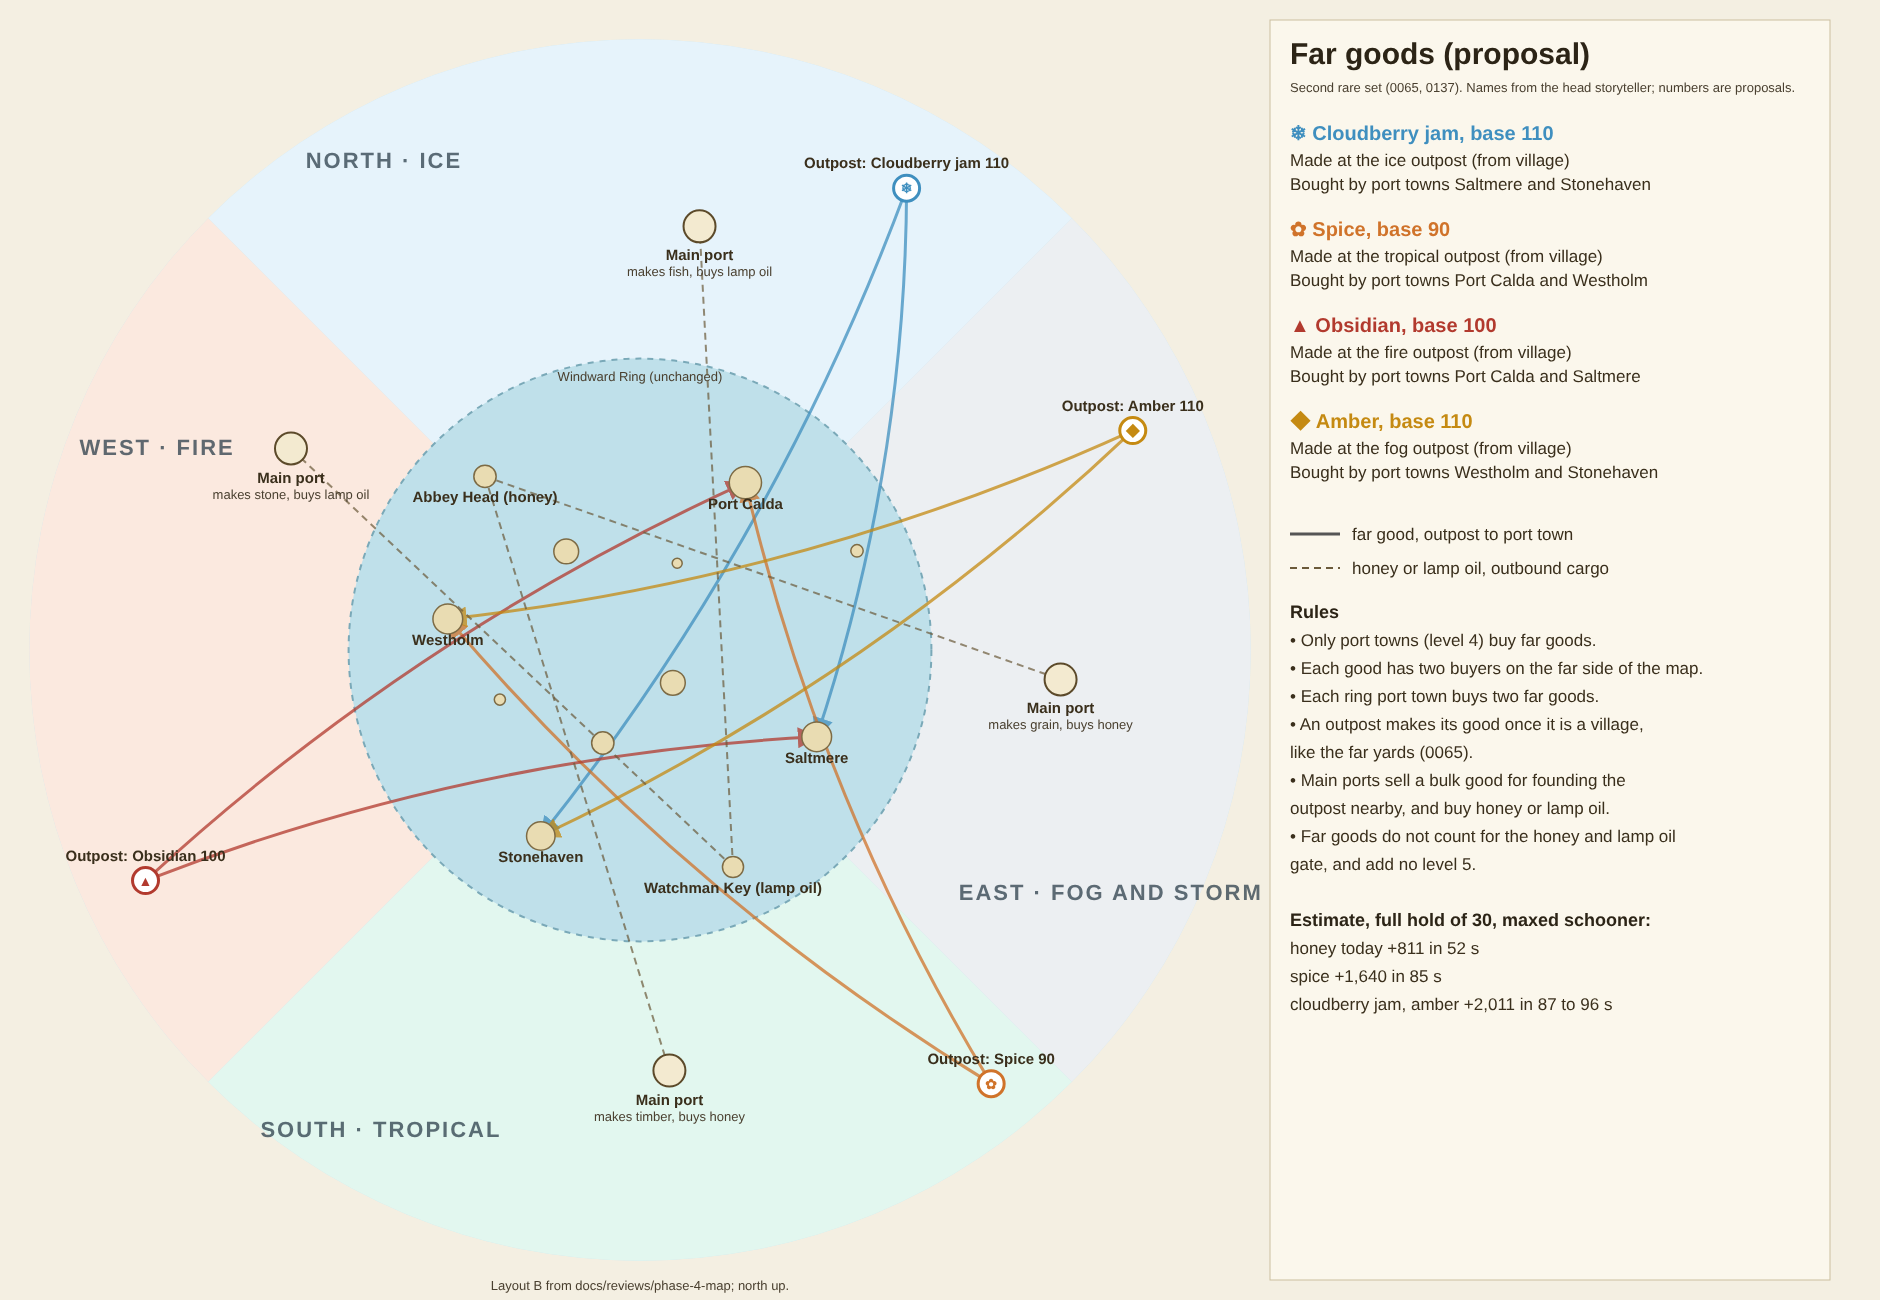
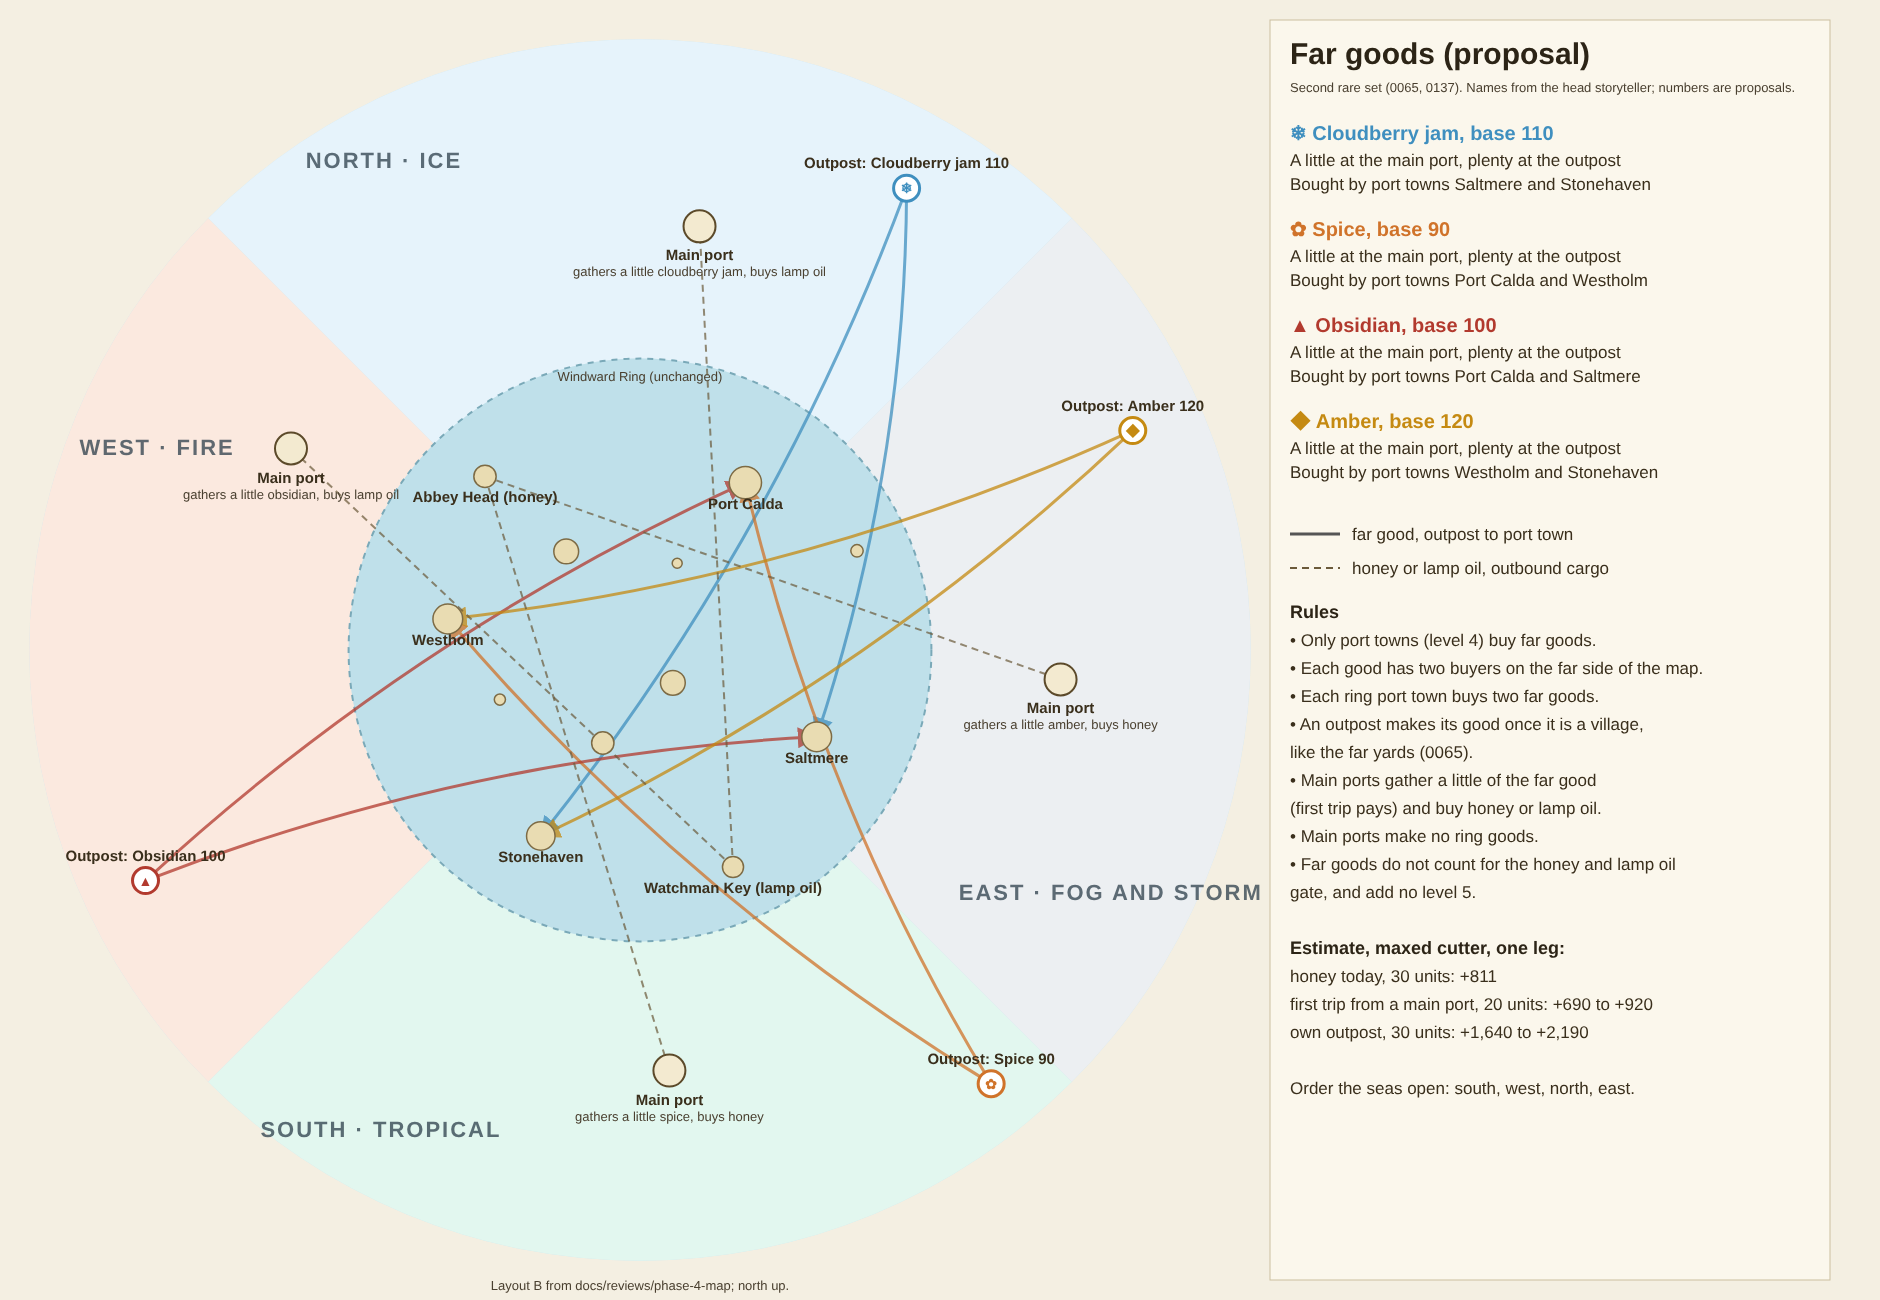
Far goods round 2: main ports gather the far good, prices follow the sea order
After Guillaume's feedback and the head storyteller's view: biome main ports
make no ring goods, they gather a little of their far good (first trip pays)
and buy honey or lamp oil; the founded outpost makes plenty. Seas open south,
west, north, east; amber raised to 120. Whole price ladder checked against
0046; single question left.

Claude-Session: https://claude.ai/code/session_01DQmJctuA4PjnC5UzqT4pSN

diff --git a/docs/reviews/far-goods/src/estimate.test.ts b/docs/reviews/far-goods/src/estimate.test.ts
@@ -36,10 +36,10 @@ const t = TUNING.economy.towns;
 const spread = 0.06; // Captain's cut
 const mid = (base: number, stock: number) =>
   base * Math.min(Math.max(Math.pow(m.referenceStock / Math.max(stock, 1), m.elasticity), m.floor), m.ceiling);
-function run(base: number, makerLevel: number, buyerLevel: number, qty: number) {
+function run(base: number, makerLevel: number, buyerLevel: number, qty: number, share = t.rareShare) {
   let cost = 0;
   let paid = 0;
-  const s0 = t.producesEquilibrium[makerLevel - 1]! * t.rareShare;
+  const s0 = t.producesEquilibrium[makerLevel - 1]! * share;
   const w0 = t.wantsEquilibrium[buyerLevel - 1]!;
   for (let i = 0; i < qty; i++) {
     cost += Math.ceil(mid(base, s0 - i - 1) * (1 + spread));
@@ -52,7 +52,7 @@ const maxed = { sails: 3, hull: 3, hold: 3 } as const;
 it('prints the estimate', () => {
   const ships = ['cutter', 'schooner', 'hoy', 'fluyt', 'indiaman'];
   const rows: string[] = [];
-  const cases: { label: string; from: string; to: string; base: number; ml: number; bl: number }[] = [
+  const cases: { label: string; from: string; to: string; base: number; ml: number; bl: number; share?: number; qty?: number }[] = [
     { label: 'honey today', from: 'abbey-head', to: 'saltmere', base: 55, ml: 2, bl: 3 },
     { label: 'lamp oil today', from: 'watchman-key', to: 'calda', base: 50, ml: 2, bl: 3 },
     { label: 'spice', from: 'outpost-tropic', to: 'calda', base: 90, ml: 2, bl: 4 },
@@ -61,8 +61,12 @@ it('prints the estimate', () => {
     { label: 'cloudberry jam', from: 'outpost-ice', to: 'stonehaven', base: 110, ml: 2, bl: 4 },
     { label: 'obsidian', from: 'outpost-fire', to: 'calda', base: 100, ml: 2, bl: 4 },
     { label: 'obsidian', from: 'outpost-fire', to: 'saltmere', base: 100, ml: 2, bl: 4 },
-    { label: 'amber', from: 'outpost-fog', to: 'westholm', base: 110, ml: 2, bl: 4 },
-    { label: 'amber', from: 'outpost-fog', to: 'stonehaven', base: 110, ml: 2, bl: 4 },
+    { label: 'amber', from: 'outpost-fog', to: 'westholm', base: 120, ml: 2, bl: 4 },
+    { label: 'amber', from: 'outpost-fog', to: 'stonehaven', base: 120, ml: 2, bl: 4 },
+    { label: 'spice, main port taste', from: 'tropic-port', to: 'calda', base: 90, ml: 2, bl: 4, share: 0.3, qty: 15 },
+    { label: 'obsidian, main port taste', from: 'fire-port', to: 'saltmere', base: 100, ml: 2, bl: 4, share: 0.3, qty: 15 },
+    { label: 'jam, main port taste', from: 'ice-port', to: 'saltmere', base: 110, ml: 2, bl: 4, share: 0.3, qty: 15 },
+    { label: 'amber, main port taste', from: 'fog-port', to: 'westholm', base: 120, ml: 2, bl: 4, share: 0.3, qty: 15 },
     { label: 'honey out', from: 'abbey-head', to: 'tropic-port', base: 55, ml: 2, bl: 2 },
     { label: 'lamp oil out', from: 'watchman-key', to: 'ice-port', base: 50, ml: 2, bl: 2 },
   ];
@@ -71,8 +75,8 @@ it('prints the estimate', () => {
     for (const id of ships) {
       const ship = effectiveShip(SHIP_CLASSES[id]!, maxed);
       const sec = legSeconds(map, ship, c.from, c.to);
-      const qty = Math.min(ship.hold, 30);
-      const r = run(c.base, c.ml, c.bl, qty);
+      const qty = Math.min(ship.hold, c.qty ?? 30);
+      const r = run(c.base, c.ml, c.bl, qty, c.share);
       parts.push(`${id}: ${qty}u ${Math.round(sec)}s +${r.gain} (${(r.gain / sec).toFixed(1)}/s)`);
     }
     rows.push(parts.join(' | '));

diff --git a/docs/reviews/far-goods/README.md b/docs/reviews/far-goods/README.md
@@ -1,6 +1,6 @@
 # Far goods for the biomes (Phase 4 economy pass)
 
-**Status:** Proposal, 2026-10-24. Docs and data proposal only, no code. The last preparation step from [0137](../../decisions/0137-phase-4-biomes-and-founded-outposts.md). The answers to the questions at the end will become an ADR.
+**Status:** Proposal, round 2, 2026-10-24 (main ports and prices reworked with the head storyteller after Guillaume's feedback). Docs and data proposal only, no code. The last preparation step from [0137](../../decisions/0137-phase-4-biomes-and-founded-outposts.md). The answers to the questions at the end will become an ADR.
 
 **Read for this pass:** [0065](../../decisions/0065-rare-goods-from-the-far-yards.md) (rare goods, port town gate), [0063](../../decisions/0063-specialized-town-goods.md) (specialties), [0059](../../decisions/0059-settlement-levels.md) (town levels), [0046](../../decisions/0046-phase-1-economy-tuning.md) (economy targets), [0137](../../decisions/0137-phase-4-biomes-and-founded-outposts.md) and its [layout review](../phase-4-map/README.md), [0140](../../decisions/0140-wind-zones-and-currents.md) (wind zones and currents), `src/data/tuning/goods.json`, `economy.json` and the ring's ports in `src/data/phase1-map.json`. The code was checked with graphify (`graphify update .`, then `graphify query` on the rare goods and market code).
 
@@ -13,60 +13,82 @@
 - Level 4 is the top level. Its only effects are bigger orders (×1.5) and a bigger market. Nothing is wanted only by port towns yet.
 - 0065 promised a second, rarer set, wanted only by port towns. 0137 moved it to the four biomes: each biome's founded outpost makes one.
 
+
 ## Proposal
 
-### The four far goods
+The loop in one line: **carry home goods out, carry the far good back.** No new everyday goods; only the four far goods are new.
 
-Names and toast lines from the head storyteller (cozy, no animal products, the weather is the only antagonist).
+### The four far goods, in the order the seas open
 
-| Biome | Far good (EN / FR) | Base price | Made at | Bought by (port towns only) |
-|---|---|---|---|---|
-| South, tropical (opens first) | Spice / Épices | 90 | Tropical outpost, from village | Port Calda, Westholm |
-| West, fire | Obsidian / Obsidienne | 100 | Fire outpost, from village | Port Calda, Saltmere |
-| North, ice | Cloudberry jam / Confiture de mûres arctiques | 110 | Ice outpost, from village | Saltmere, Stonehaven |
-| East, fog and storm | Amber / Ambre | 110 | Fog outpost, from village | Westholm, Stonehaven |
+Names, order and openers from the head storyteller. All four open after the ring arcs, each through someone the player already knows, so every ring arc leads outward. The price climbs with the order, so each new sea pays more than the last.
 
-- **Far side rule, as in 0065.** Each good's two buyers sit on the side of the ring away from its biome, so every delivery crosses the ring. Each ring port town buys exactly two far goods, and each good has exactly two buyers.
-- **Prices.** Spice is the gentlest, since the south opens first. The ice and fog goods pay most because their seas are the hardest (icebergs, fog, storms). All four sit well above honey (55), roughly in line with a leg that is twice as long.
-- **Made like the yards' goods.** The outpost keeps 70 % of a bulk producer's stock (`rareShare`, as for honey), so the good costs about half its base price at the outpost and about 2.5 to 2.9 times its base at a port town.
+| Opens | Biome | Far good (EN / FR) | Base price | Opened by | Ships that suit it |
+|---|---|---|---|---|---|
+| 1st | South, tropical | Spice / Épices | 90 | Old Ness's chart (Watchman Key) | Schooner, hoy, fluyt (the shallows block deep ships) |
+| 2nd | West, fire | Obsidian / Obsidienne | 100 | Ines's contact (Port Calda) | Clipper, fluyt |
+| 3rd | North, ice | Cloudberry jam / Confiture de mûres arctiques | 110 | Kit's contact (Saltmere) | Clipper, indiaman |
+| 4th | East, fog and storm | Amber / Ambre | 120 | Maren's contact (Westholm) | Indiaman |
 
-### Who trades what in each biome
+The three later seas each open with a small "letter from a relative" quest, which the storyteller writes into the brief's Phase 4 section.
 
-| Biome | Main port makes (bulk) | Main port buys | Outpost wants (founding) |
+### Where each far good comes from
+
+- **The biome's main port gathers a little of it.** Its islanders already collect their biome's good, so the very first visit shows what the place is about and pays. It keeps a small stock, like a town workshop's specialty (40 % share), so it costs about its base price there and the price climbs fast if you buy a lot.
+- **The outpost you found makes much more of it, cheaper.** Once the outpost is a village it makes the good like the far yards make honey (70 % share), at about half its base price. That is the story of founding it: your own island makes the good in quantity.
+- **Main ports make no ring goods.** They buy them: honey or lamp oil from the far side of the ring, the ring's specialties, and what their outpost needs to grow (timber, planks, stone, food). Founding goods come from the ring.
+
+| Biome | Main port buys (rare) | Outpost needs to grow |
+|---|---|---|
+| Tropical | Honey (Abbey Head) | Grain, timber; then planks and stone |
+| Fire | Lamp oil (Watchman Key) | Fish, timber; then planks and bread |
+| Ice | Lamp oil (Watchman Key) | Grain, timber; then planks and cut stone |
+| Fog and storm | Honey (Abbey Head) | Fish, stone; then planks and smoked fish |
+
+### Who buys far goods
+
+- **Only port towns (level 4) on the ring.** Each far good has two buyers on the far side of the ring, and each ring town buys two far goods once it is a port town:
+
+  | Far good | Bought by |
+  |---|---|
+  | Spice | Port Calda, Westholm |
+  | Obsidian | Port Calda, Saltmere |
+  | Cloudberry jam | Saltmere, Stonehaven |
+  | Amber | Westholm, Stonehaven |
+
+- What the player gets for growing a town to level 4: it starts buying two far goods, the best-paying trade in the game. Today level 4 brings only bigger orders.
+- Far goods add no level 5 and do not count toward the honey and lamp oil gate (20 units to become a port town, 0065).
+- Outposts stop at level 3. Delivery orders use today's formula, which already pays more for long hauls.
+- The shared toast line (`toast.rareGood`) already fits all four goods in English and French.
+
+## What the player earns
+
+`src/estimate.test.ts` times each leg with the balance simulation's own leg model (`legSeconds`) on the ring plus the placeholder sites of the [layout review](../phase-4-map/README.md), and prices the load with the market formula (seller a village, buyer a port town, Captain's cut). It ignores currents, wind zones and hazards, so it is a first check, not a balance target. Maxed cutter, gold earned on one leg:
+
+| Run | Load | Leg | Earned |
 |---|---|---|---|
-| Tropical | timber | honey, plus ring specialties | grain, timber; planks and stone from village |
-| Fire | stone | lamp oil, plus ring specialties | fish, timber; planks and bread from village |
-| Ice | fish | lamp oil, plus ring specialties | grain, timber; planks and cut stone from village |
-| Fog and storm | grain | honey, plus ring specialties | fish, stone; planks and smoked fish from village |
+| Honey today, Abbey Head to Saltmere | 30 | 60 s | 811 |
+| Honey out, Abbey Head to the tropical main port | 30 | 90 s | 668 |
+| **First trip:** spice from the tropical main port to Port Calda | 20 | 103 s | 690 |
+| First trip: obsidian, main port to Saltmere | 20 | 83 s | 770 |
+| First trip: cloudberry jam, main port to Saltmere | 20 | 77 s | 845 |
+| First trip: amber, main port to Westholm | 20 | 86 s | 923 |
+| **Own outpost:** spice to Port Calda | 30 | 100 s | 1,640 |
+| Own outpost: obsidian to Saltmere | 30 | 108 s | 1,825 |
+| Own outpost: cloudberry jam to Saltmere | 30 | 98 s | 2,011 |
+| Own outpost: amber to Westholm | 30 | 103 s | 2,191 |
 
-- **The main port feeds its outpost.** Its bulk good is one the outpost needs, a short hop away, so founding does not mean hauling all the timber from the ring.
-- **Honey and lamp oil get a second use.** Each main port buys the yard good from the far side of the ring (the tropics buy Abbey Head's honey, the ice port buys Watchman Key's lamp oil, and so on). The outbound voyage carries cargo too, and the far yards keep mattering.
-- No new bulk goods. Only the four far goods are new.
+So the first trip to a new sea earns about what a honey run does, plus the honey or lamp oil you carried out. Founding the outpost roughly doubles it. Buying more than about 20 at a main port loses money, because its small stock gets dear; nothing else limits it.
 
-### Rules
+### The whole price ladder
 
-- **Only port towns buy far goods.** A ring port starts wanting its two far goods at level 4. This is the payoff level 4 was missing: it opens the best-paying trade in the game.
-- **No level 5 and no new gate.** Far goods do not count toward the honey and lamp oil gate (20 units to become a port town).
-- **Outposts stop at level 3**, like the yards in practice: an outpost is a working settlement, not a ring town.
-- **Delivery orders** for far goods follow the existing formula, which already pays more by haul distance ([0028](../../decisions/0028-delivery-contracts.md), [0046](../../decisions/0046-phase-1-economy-tuning.md)).
-- **Toast**: the shared `toast.rareGood` line already fits all four in English and French (the French wording avoids gender agreement), so nothing new is needed there.
-
-## Estimate
-
-`src/estimate.test.ts` times each leg with the balance simulation's own leg model (`legSeconds`) on the ring plus the placeholder sites of the [layout review](../phase-4-map/README.md), and prices a 30-unit load with the market formula (outpost a village, buyer a port town, Captain's cut). It ignores currents, wind zones and hazards, so it is a first check, not a balance target.
-
-| Run | Leg (maxed schooner) | Gain, 30 units | Gold per second |
+| Stage (0046, 0048, 0065) | Goods and prices | One good load earns | Ships bought at this stage |
 |---|---|---|---|
-| Honey today, Abbey Head to Saltmere | 52 s | 811 | 15.7 |
-| Lamp oil today, Watchman Key to Port Calda | 57 s | 734 | 12.9 |
-| Spice, tropical outpost to Port Calda or Westholm | 85 s | 1,640 | 19.4 |
-| Obsidian, fire outpost to Saltmere | 91 s | 1,825 | 20.0 |
-| Obsidian, fire outpost to Port Calda | 103 s | 1,825 | 17.8 |
-| Cloudberry jam, ice outpost to Saltmere | 87 s | 2,011 | 23.2 |
-| Amber, fog outpost to Westholm | 89 s | 2,011 | 22.5 |
-| Honey outbound, Abbey Head to tropical port | 78 s | 668 | 8.5 |
+| First hour, the ring | Raw 8 to 18, specialties 20 to 40 | about 100 to 400 | Sloop upgrades 300 / 900, cutter 1,500, hoy 1,800 |
+| Far yards found | Honey 55, lamp oil 50 | about 800 | Schooner 5,000, fluyt 7,000 |
+| After the ring arcs, first sea (south) | Spice 90 | 700 first trip, 1,640 own outpost | Upgrades 1,500 to 6,000 |
+| Later seas (west, north, east) | Obsidian 100, cloudberry jam 110, amber 120 | 770 to 920, then 1,800 to 2,200 | Clipper 20,000, indiaman 25,000, upgrades up to 18,000 |
 
-A far run pays about twice a honey run per load, and 20 to 50 % more per second of sailing, before counting the way back. The deep haulers (fluyt, indiaman) earn 9 to 21 gold per second on the same runs, and the tropical shallows will block them, which leaves the south to the small swift ships as 0137 intends.
+Each step roughly doubles a load's value, the same jump that honey made over the ring goods. The 40-minute targets of 0046 are untouched: far goods only exist after the ring arcs. Phase 4 balance targets go into `balance-targets.json` once the real 5x map is authored, checked with the `?tune` panel's balance check (0114).
 
 ## Data proposal
 
@@ -78,18 +100,15 @@ Nothing is added to the game yet: the goods would appear in markets before their
   "spice": { "id": "spice", "name": "Spice", "kind": "far", "basePrice": 90, "icon": "🌶" },
   "obsidian": { "id": "obsidian", "name": "Obsidian", "kind": "far", "basePrice": 100, "icon": "🪨" },
   "cloudberryJam": { "id": "cloudberryJam", "name": "Cloudberry jam", "kind": "far", "basePrice": 110, "icon": "🫙" },
-  "amber": { "id": "amber", "name": "Amber", "kind": "far", "basePrice": 110, "icon": "🟠" }
+  "amber": { "id": "amber", "name": "Amber", "kind": "far", "basePrice": 120, "icon": "🟠" }
   ```
 
-- Map ports: the ring's port towns get `levelWantsMade: { "4": [...] }` (a new field, the far goods wanted from level 4); each outpost gets `levelProduces: { "2": [<far good>] }`; each main port gets its bulk good in `produces` and honey or lamp oil in `wantsMade`.
-- `src/i18n`: `good.spice` and friends in English and French, with the storyteller's names.
-- `balance-targets.json`: Phase 4 targets once the real 5x map is authored, checked with the `?tune` panel's balance check (0114).
+- `economy.json` › `towns`: `farMainShare: 0.4` (main port stock) and `farOutpostShare: 0.7` (outpost stock), next to `specialtyShare` and `rareShare`.
+- Map ports: each main port gets its far good in `produces` and honey or lamp oil plus the ring specialties in `wantsMade`; each outpost gets `levelProduces: { "2": [<far good>] }`; each ring port gets a new `levelWantsMade: { "4": [...] }` for its two far goods.
+- `src/i18n`: `good.spice`, `good.obsidian`, `good.cloudberryJam`, `good.amber` in English and French, with the storyteller's names.
 
-## Questions for Guillaume
+## Question for Guillaume
 
-1. **Who buys far goods:** only port towns, from level 4, as 0065 promised (recommended), or any size of town as soon as an outpost makes them, like honey today?
-2. **Main ports:** each main port makes one bulk good its outpost needs and buys honey or lamp oil from the far side, so both legs carry cargo (recommended), or main ports trade only today's goods?
-3. **Prices:** spice 90, obsidian 100, cloudberry jam 110, amber 110, about twice honey for a leg twice as long (recommended), or keep them closer to honey (70 to 80) so the ring stays competitive?
-4. **Anything beyond money for port towns?** Recommended: money only for now. The far goods are the best trade in the game and only a port town opens them. A visible "far market" on the quay or Skerry buildings that use far goods can come later if level 4 still feels flat after play.
+Is this shape OK? Far goods are gathered a little at each biome's main port and made in quantity at the outpost you found. Only the ring's port towns buy them, and the prices climb with the order the seas open: spice 90, obsidian 100, cloudberry jam 110, amber 120. The head storyteller agrees with the order and the openers.
 
 Image: `node docs/reviews/far-goods/src/make.cjs` (writes the SVG and, with Playwright, the PNG).
